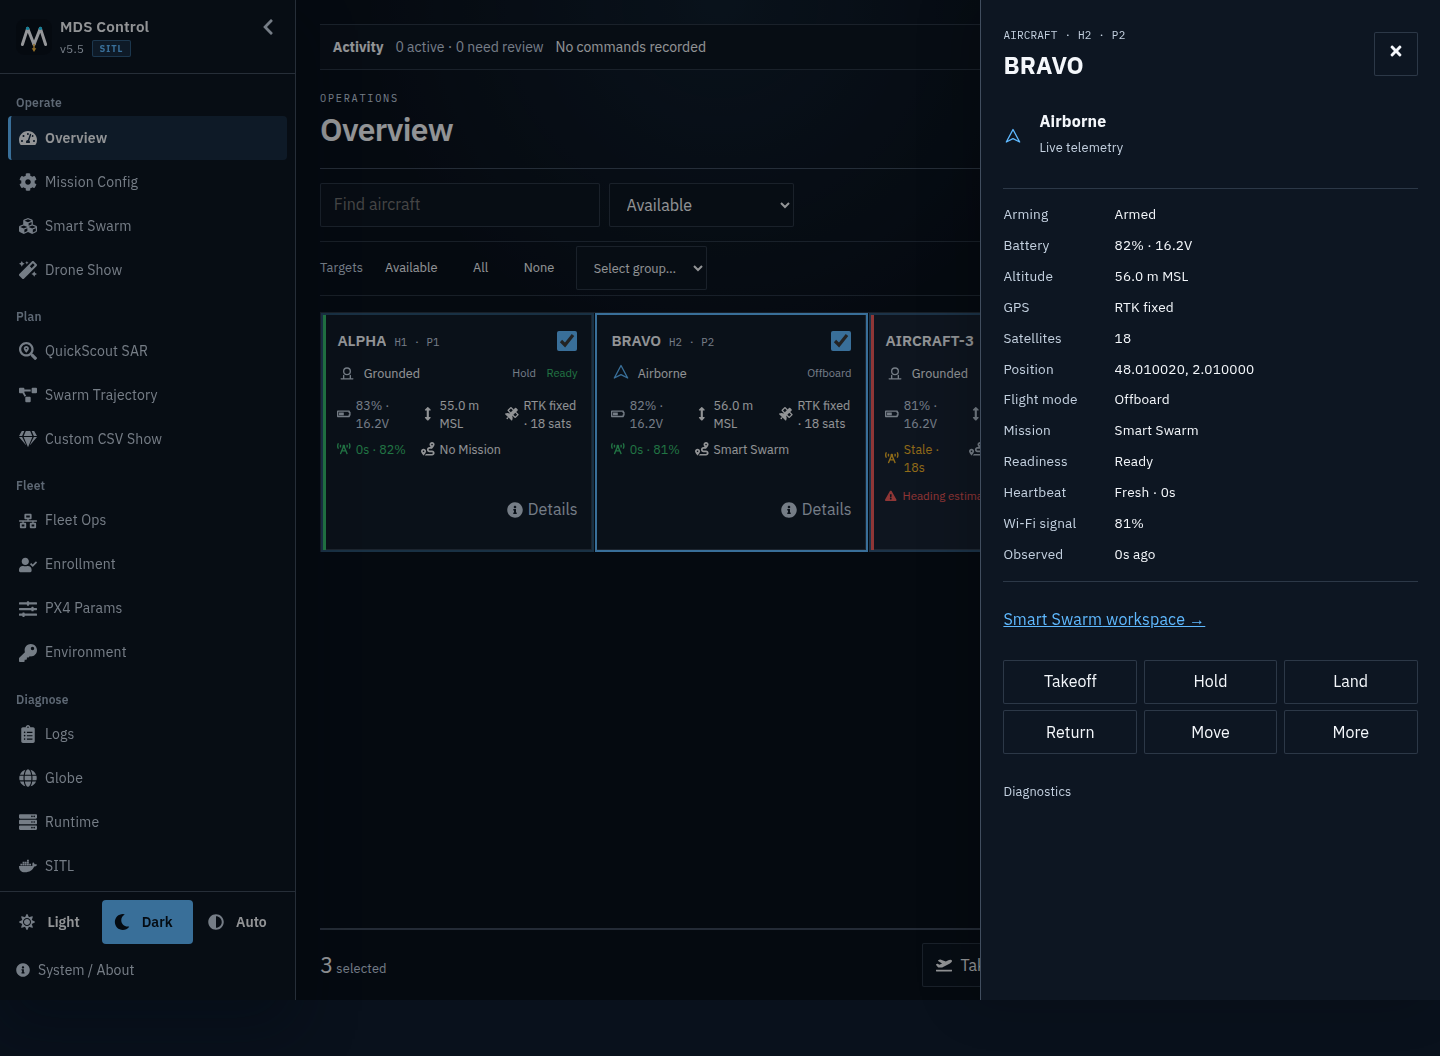
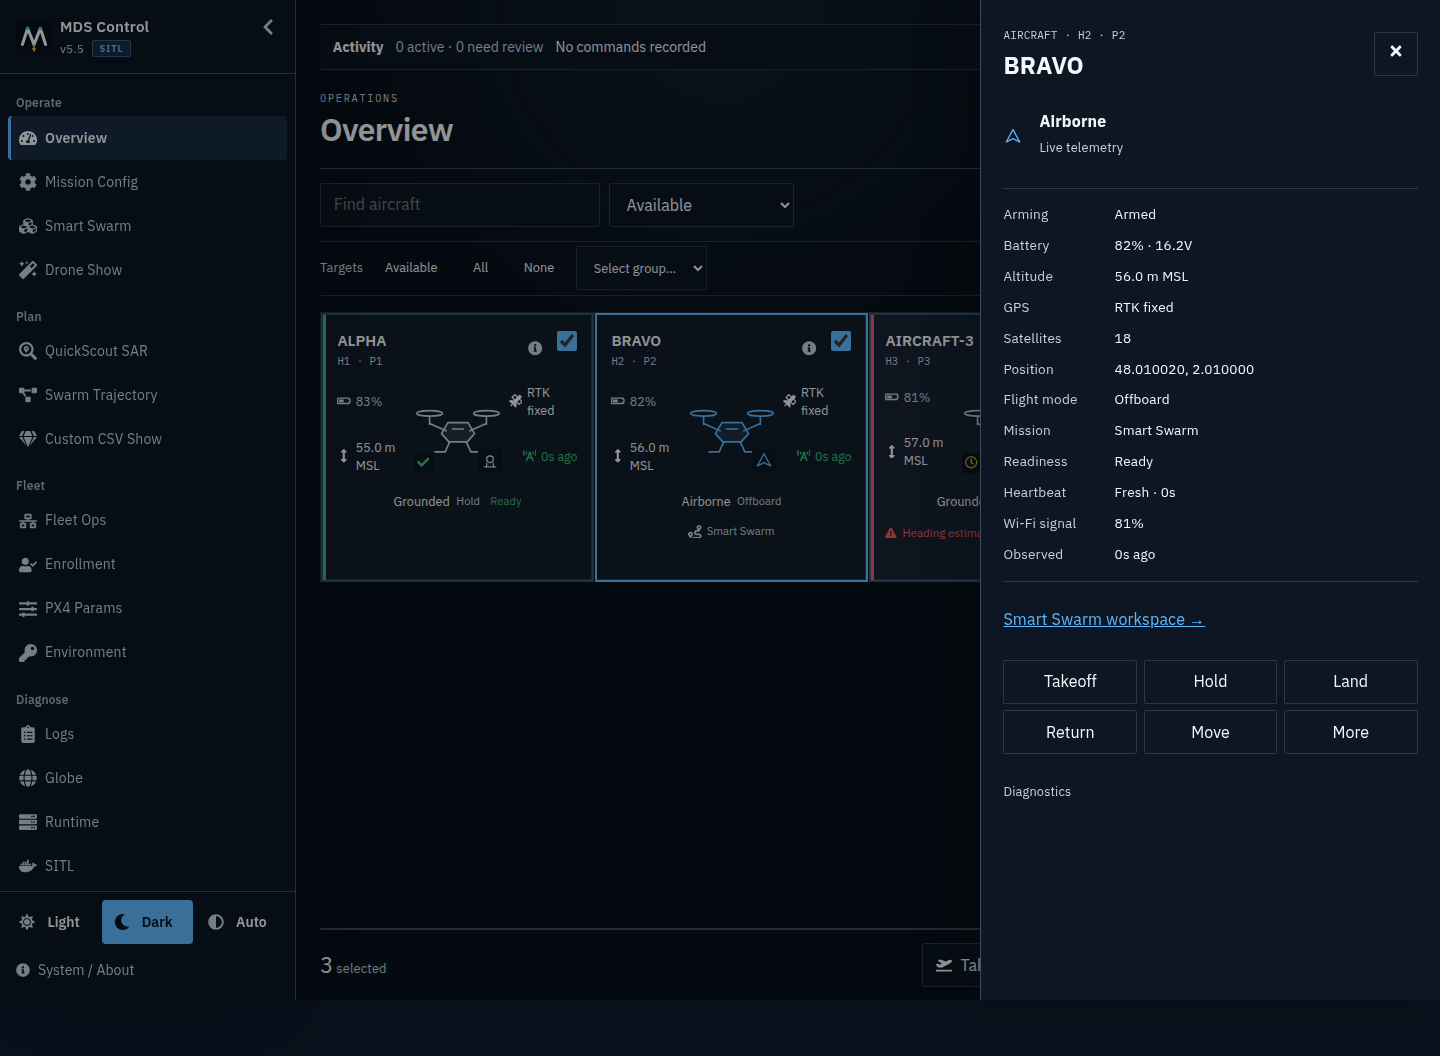
Refresh working aircraft-card screenshots and annunciator guide

diff --git a/docs/plans/2026-11-11-overview-refinement-validation.md b/docs/plans/2026-11-11-overview-refinement-validation.md
@@ -56,6 +56,36 @@ avoid messaging-app photo compression.
 
 ## Boundaries
 
+### Silhouette-centered follow-up
+
+The initial text-led card layout above was superseded by an aircraft-centered
+layout: battery/altitude left, GNSS/link age right, concise state/mode below.
+Normal voltage, idle-mission prose and repeated Details wording move out of the
+card. The schematic is a front-profile illustration, not measured heading or
+rotor/motor status. Distinct fixed badges show initialization, link freshness or
+loss, ground readiness and severity-prioritized condition counts. Clicking a
+condition badge opens the existing identity-scoped inspector; it does not clear
+or acknowledge a condition. Lost evidence takes priority over an old boot/ready
+report, and never implies landing or disarm.
+
+- Seven focused frontend suites / **149 tests passed** for the final follow-up.
+- [Fourteen browser cases](../assets/operator-overview/evidence/aircraft-cards-20261111.json)
+  revalidated dark/light desktop/tablet/phone layouts, 1–100 cards, aligned
+  readouts, selection and scoped actions against the final built source.
+- [Two state-gallery cases](../assets/operator-overview/evidence/aircraft-annunciators-20261111.json)
+  verified readiness, initialization, stale/link-lost evidence and alert-badge
+  clicks into the full reasons. Seven gallery aircraft are synthetic examples,
+  not changes to the configured fleet.
+- [Two deployed-bundle cases](../assets/operator-overview/evidence/deployed-aircraft-cards-20261111.json)
+  passed for two-aircraft desktop/phone fixtures against the actually served
+  page. Native read-only API smoke retained REAL mode and the existing fleet;
+  its temporary credential was revoked. No command writes or browser errors.
+
+The earlier full regression numbers remain evidence for the preceding scope;
+they are not presented as a repeated full-suite run for this visual follow-up.
+
+### Unchanged operational scope
+
 This is a GCS presentation/command-review refinement, not a new aircraft
 controller or flight release. No PX4 parameter, swarm gain, formation, network
 profile or aircraft command changed. No hardware or flight clearance is claimed.

diff --git a/docs/guides/dashboard-operator.md b/docs/guides/dashboard-operator.md
@@ -39,6 +39,10 @@ Small badges on the schematic distinguish initialization, stale/missing link
 evidence and ground readiness. A severity-prioritized alert marker shows the
 condition count; clicking it opens the same aircraft inspector with the full
 reasons near the top. Viewing a condition does not acknowledge or clear it.
+
+![Aircraft state and alert badges, shown using synthetic examples](../assets/operator-overview/state-gallery-dark.png)
+
+![Aircraft alert reasons remain in the identity-scoped inspector](../assets/operator-overview/aircraft-alerts-dark.png)
 Flight modes use names; raw codes remain in inspection diagnostics. Wi-Fi percent
 appears only when a fresh heartbeat actually reports it, not as inferred radio
 range or end-to-end latency.
